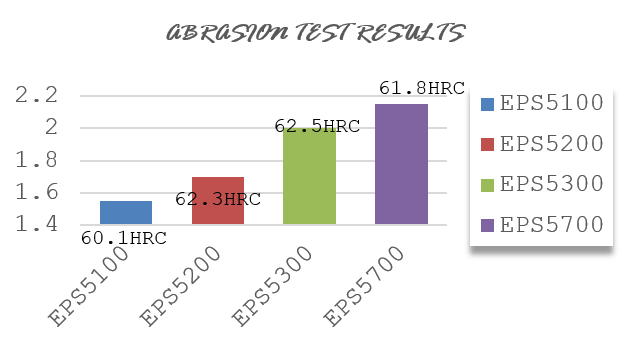
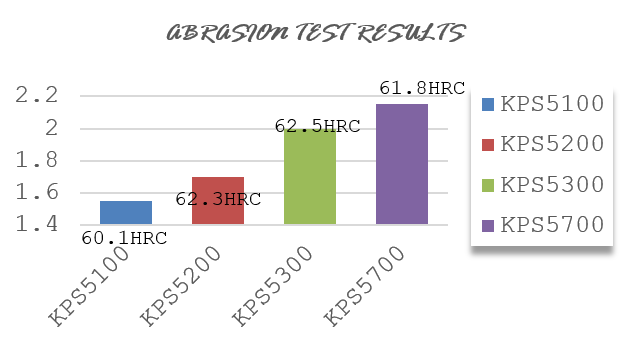
fix image EPS5000 and product detail

diff --git a/products_detail/portfolio_details_ACCESSORIES.html b/products_detail/portfolio_details_ACCESSORIES.html
@@ -317,54 +317,6 @@
           </div>
         </div>
         <!-- Performance Parameters -->
-        <h5 class="mt-5" data-i18n="performance_parameters_title"></h5>
-        <div class="row justify-content">
-          <div class="col-md-10">
-            <div class="table-responsive">
-              <table class="custom-table">
-                <thead>
-                  <tr>
-                    <th data-i18n="series"></th>
-                    <th data-i18n="type"></th>
-                    <th data-i18n="hardness"></th>
-                    <th data-i18n="wearable"></th>
-                    <th data-i18n="corrosion"></th>
-                    <th data-i18n="toughness"></th>
-                    <th data-i18n="machinability"></th>
-                    <th data-i18n="application"></th>
-                  </tr>
-                </thead>
-                <tbody>
-                  <tr>
-                    <td class="vertical-text" rowspan="3">EPS4000</td>
-                    <td>EPS4100</td>
-                    <td>HRC56°~58°</td>
-                    <td>6</td>
-                    <td>5</td>
-                    <td>7</td>
-                    <td>8</td>
-                    <td rowspan="3" data-i18n="application_text"></td>
-                  </tr>
-                  <tr>
-                    <td>EPS4200</td>
-                    <td>HRC56°~56°</td>
-                    <td>7</td>
-                    <td>5</td>
-                    <td>7</td>
-                    <td>8</td>
-                  </tr>
-                  <tr>
-                    <td>EPS4300</td>
-                    <td>HRC60°~62°</td>
-                    <td>8</td>
-                    <td>6</td>
-                    <td>7</td>
-                    <td>8</td>
-                  </tr>
-                </tbody>
-              </table>
-            </div>
-          </div>
         </div>
       </div>
   </main>

diff --git a/products_detail/portfolio_details_EPB.html b/products_detail/portfolio_details_EPB.html
@@ -310,8 +310,8 @@
                 </thead>
                 <tbody>
                   <tr>
-                    <td class="vertical-text" rowspan="4">EPB</td>
-                    <td>EPB200</td>
+                    <td class="vertical-text" rowspan="4">KPB</td>
+                    <td>KPB200</td>
                     <td>HRC55°~58°</td>
                     <td>Ni+Cr+B+Cu</td>
                     <td data-i18n="abrasion_resistance"></td>
@@ -319,21 +319,21 @@
                     <td rowspan="4" data-i18n="epb_application"></td>
                   </tr>
                   <tr>
-                    <td>EPB300</td>
+                    <td>KPB300</td>
                     <td>HRC54°~58°</td>
                     <td>Ni+Cr+W+B</td>
                     <td data-i18n="preservative"></td>
                     <td>12 × 10<sup>-6</sup></td>
                   </tr>
                   <tr>
-                    <td>EPB400</td>
+                    <td>KPB400</td>
                     <td>HRC55°~60°</td>
                     <td>Ni+CO+Cr+W+B</td>
                     <td data-i18n="anti_wear_anti_corrosion"></td>
                     <td>12 × 10<sup>-6</sup></td>
                   </tr>
                   <tr>
-                    <td>EPB500</td>
+                    <td>KPB500</td>
                     <td>HRC58°~64°</td>
                     <td>Ni+Cr+Wc+Co+B</td>
                     <td data-i18n="high_wear_resistance"></td>

diff --git a/products_detail/portfolio_details_EPS5000.html b/products_detail/portfolio_details_EPS5000.html
@@ -321,8 +321,8 @@
                 </thead>
                 <tbody>
                   <tr>
-                    <td class="vertical-text" rowspan="4">EPS5000</td>
-                    <td>EPS5100</td>
+                    <td class="vertical-text" rowspan="4">KPS5000</td>
+                    <td>KPS5100</td>
                     <td>HRC58°~60°</td>
                     <td>7</td>
                     <td>6</td>
@@ -331,7 +331,7 @@
                     <td rowspan="4" data-i18n="eps5000_application_text"></td>
                   </tr>
                   <tr>
-                    <td>EPS5200</td>
+                    <td>KPS5200</td>
                     <td>HRC58°~60°</td>
                     <td>7</td>
                     <td>6</td>
@@ -339,7 +339,7 @@
                     <td>6</td>
                   </tr>
                   <tr>
-                    <td>EPS5300</td>
+                    <td>KPS5300</td>
                     <td>HRC62°~65°</td>
                     <td>8</td>
                     <td>7</td>
@@ -347,7 +347,7 @@
                     <td>6</td>
                   </tr>
                   <tr>
-                    <td>EPS5700</td>
+                    <td>KPS5700</td>
                     <td>HRC62°~68°</td>
                     <td>9</td>
                     <td>7</td>

diff --git a/products_detail/portfolio_details_EPS6000.html b/products_detail/portfolio_details_EPS6000.html
@@ -318,9 +318,9 @@
                 <tbody>
                   <tr>
                     <!-- Gộp 3 hàng ở cột đầu -->
-                    <td class="vertical-text" rowspan="3">EPS6000</td>
+                    <td class="vertical-text" rowspan="3">KPS6000</td>
 
-                    <td>EPS6100</td>
+                    <td>KPS6100</td>
                     <td>HRC56°~60°</td>
                     <td>9</td>
                     <td>4</td>
@@ -331,7 +331,7 @@
                     <td rowspan="3" data-i18n="eps6000_application_text"></td>
                   </tr>
                   <tr>
-                    <td>EPS6200</td>
+                    <td>KPS6200</td>
                     <td>HRC62°~66°</td>
                     <td>10</td>
                     <td>5</td>
@@ -339,7 +339,7 @@
                     <td>5</td>
                   </tr>
                   <tr>
-                    <td>EPS6300</td>
+                    <td>KPS6300</td>
                     <td>HRC60°~62°</td>
                     <td>10</td>
                     <td>5</td>

diff --git a/service-details.html b/service-details.html
@@ -181,10 +181,9 @@
             <div class="help-box d-flex flex-column justify-content-center align-items-center">
               <i class="bi bi-headset help-icon"></i>
               <h4 data-i18n="service.needHelp">Cần hỗ trợ?</h4>
-              <p class="d-flex align-items-center mt-2 mb-0"><i class="bi bi-telephone me-2"></i> <span>+84 909 123
-                  456</span></p>
+              <p class="d-flex align-items-center mt-2 mb-0"><i class="bi bi-telephone me-2"></i> <span>0353449999</span></p>
               <p class="d-flex align-items-center mt-1 mb-0"><i class="bi bi-envelope me-2"></i> <a
-                  href="mailto:support@congtycokhi.vn">support@congtycokhi.vn</a></p>
+                  href="mailto:support@congtycokhi.vn">service.hcm@kyowavina.com</a></p>
             </div>
 
           </div>

diff --git a/products_detail/portfolio_details_EPS7000.html b/products_detail/portfolio_details_EPS7000.html
@@ -315,8 +315,8 @@
                 </thead>
                 <tbody>
                   <tr>
-                    <td class="vertical-text" rowspan="2">EPS7000</td>
-                    <td>EPS7100</td>
+                    <td class="vertical-text" rowspan="2">KPS7000</td>
+                    <td>KPS7100</td>
                     <td>HRC53°~57°</td>
                     <td>9</td>
                     <td>9</td>
@@ -325,7 +325,7 @@
                     <td rowspan="2" data-i18n="eps7000_application_text"></td>
                   </tr>
                   <tr>
-                    <td>EPS7200</td>
+                    <td>KPS7200</td>
                     <td>HRC58°~62°</td>
                     <td>10</td>
                     <td>10</td>

diff --git a/products_detail/portfolio_details_EPS8000.html b/products_detail/portfolio_details_EPS8000.html
@@ -324,8 +324,8 @@
                 </thead>
                 <tbody>
                   <tr>
-                    <td class="vertical-text" rowspan="2">EPS8000</td>
-                    <td>EPS8100</td>
+                    <td class="vertical-text" rowspan="2">KPS8000</td>
+                    <td>KPS8100</td>
                     <td>HRC56°~60°</td>
                     <td>9</td>
                     <td>9</td>
@@ -334,7 +334,7 @@
                     <td rowspan="2" data-i18n="eps8000_application_text"></td>
                   </tr>
                   <tr>
-                    <td>EPS8200</td>
+                    <td>KPS8200</td>
                     <td>HRC56°~62°</td>
                     <td>9</td>
                     <td>10</td>
